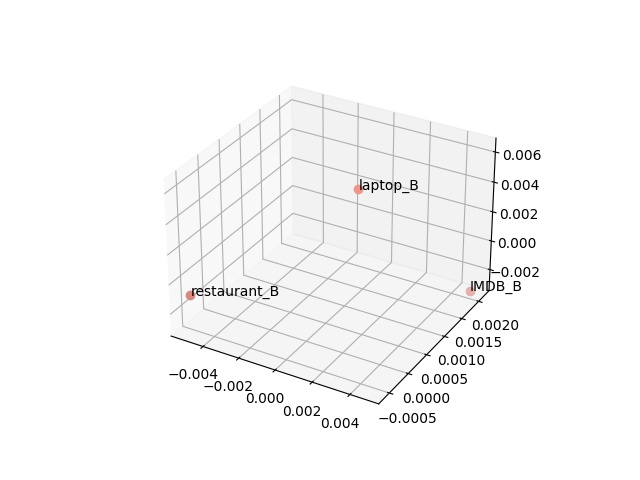
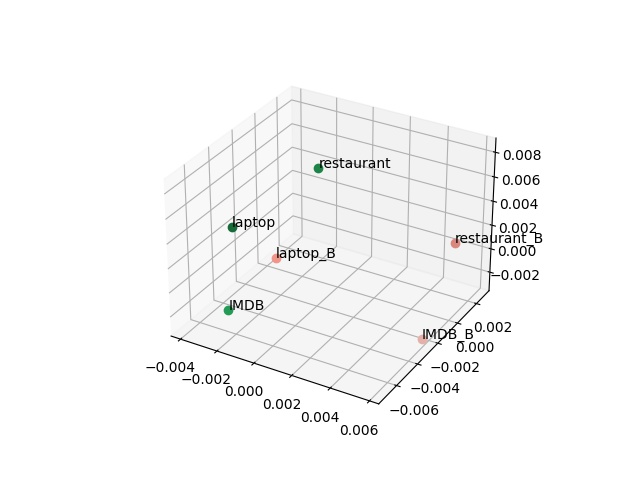
update

Changed region(s): [[0.25, 0.2188, 0.8438, 0.9062], [0.2188, 0.75, 0.5938, 0.9062]]

diff --git a/draw_cuda_crossmodel_prompt.py b/draw_cuda_crossmodel_prompt.py
@@ -482,9 +482,9 @@ IMDB_label_ten_B[IMDB_label_ten_B==1]=23
 #all_prompt_emb = torch.stack([sst2_ten,rte_ten,re_ten,MNLI_ten,MRPC_ten,QNLI_ten,QQP_ten,WNLI_ten,STSB_ten,laptop_ten,restaurant_ten,IMDB_ten,sst2_ten_B,rte_ten_B,re_ten_B,MNLI_ten_B,MRPC_ten_B,QNLI_ten_B,QQP_ten_B,WNLI_ten_B,STSB_ten_B,laptop_ten_B,restaurant_ten_B,IMDB_ten_B])
 
 
-#all_prompt_emb = torch.stack([laptop_ten,restaurant_ten,IMDB_ten,laptop_ten_B,restaurant_ten_B,IMDB_ten_B])
+all_prompt_emb = torch.stack([laptop_ten,restaurant_ten,IMDB_ten,laptop_ten_B,restaurant_ten_B,IMDB_ten_B])
 #all_prompt_emb = torch.stack([laptop_ten,restaurant_ten,IMDB_ten])
-all_prompt_emb = torch.stack([laptop_ten_B,restaurant_ten_B,IMDB_ten_B])
+#all_prompt_emb = torch.stack([laptop_ten_B,restaurant_ten_B,IMDB_ten_B])
 
 #100%
 ###
@@ -492,9 +492,9 @@ all_prompt_emb = torch.stack([laptop_ten_B,restaurant_ten_B,IMDB_ten_B])
 
 #all_label = torch.stack([sst2_label_ten,rte_label_ten,re_label_ten,MNLI_label_ten,MRPC_label_ten,QNLI_label_ten,QQP_label_ten,WNLI_label_ten,STSB_label_ten,laptop_label_ten,restaurant_label_ten,IMDB_label_ten,sst2_label_ten_B,rte_label_ten_B,re_label_ten_B,MNLI_label_ten_B,MRPC_label_ten_B,QNLI_label_ten_B,QQP_label_ten_B,WNLI_label_ten_B,STSB_label_ten_B,laptop_label_ten_B,restaurant_label_ten_B,IMDB_label_ten_B])
 
-#all_label = torch.stack([laptop_label_ten,restaurant_label_ten,IMDB_label_ten,laptop_label_ten_B,restaurant_label_ten_B,IMDB_label_ten_B])
+all_label = torch.stack([laptop_label_ten,restaurant_label_ten,IMDB_label_ten,laptop_label_ten_B,restaurant_label_ten_B,IMDB_label_ten_B])
 #all_label = torch.stack([laptop_label_ten,restaurant_label_ten,IMDB_label_ten])
-all_label = torch.stack([laptop_label_ten_B,restaurant_label_ten_B,IMDB_label_ten_B])
+#all_label = torch.stack([laptop_label_ten_B,restaurant_label_ten_B,IMDB_label_ten_B])
 
 
 print("===================")
@@ -527,9 +527,9 @@ all_label = all_label.to("cpu").numpy()
 
 #task_map={0:"sst2",1:"rte",2:"re",3:"MNLI",4:"MRPC",5:"QNLI",6:"QQP",7:"WNLI",8:"STSB",9:"laptop",10:"restaurant",11:"IMDB",12:"sst2_B",13:"rte_B",14:"re_B",15:"MNLI_B",16:"MRPC_B",17:"QNLI_B",18:"QQP_B",19:"WNLI_B",20:"STSB_B",21:"laptop_B",22:"restaurant_B",23:"IMDB_B"}
 
-#task_map={0:"laptop",1:"restaurant",2:"IMDB",3:"laptop_B",4:"restaurant_B",5:"IMDB_B"}
+task_map={0:"laptop",1:"restaurant",2:"IMDB",3:"laptop_B",4:"restaurant_B",5:"IMDB_B"}
 #task_map={0:"laptop",1:"restaurant",2:"IMDB"}
-task_map={0:"laptop_B",1:"restaurant_B",2:"IMDB_B"}
+#task_map={0:"laptop_B",1:"restaurant_B",2:"IMDB_B"}
 
 ###
 #task_map={0:"sst2",1:"re",2:"laptop",3:"restaurant",4:"IMDB"}
@@ -538,10 +538,10 @@ task_map={0:"laptop_B",1:"restaurant_B",2:"IMDB_B"}
 
 #color_map={0:"#186A3B",1:"#1D8348",2:"#239B56",3:"#28B463",4:"#145A32",5:"#196F3D",6:"#1E8449",7:"#229954",8:"#0B5345 ",9:"#0E6655",10:"#117A65",11:"#CD6155",12:"#C0392B",13:"#A93226",14:"#922B21",15:"#7B241C",16:"#943126",17:"#B03A2E",18:"#CB4335",19:"#E74C3C",20:"#EC7063",21:"#F1948A",22:"#D98880",23:"#E6B0AA"}
 
-#color_map={0:"#186A3B",1:"#1D8348",2:"#239B56",3:"#F1948A",4:"#D98880",5:"#E6B0AA"}
+color_map={0:"#186A3B",1:"#1D8348",2:"#239B56",3:"#F1948A",4:"#D98880",5:"#E6B0AA"}
 
 #color_map={0:"#186A3B",1:"#1D8348",2:"#239B56"}
-color_map={0:"#F1948A",1:"#D98880",2:"#E6B0AA"}
+#color_map={0:"#F1948A",1:"#D98880",2:"#E6B0AA"}
 
 
 
